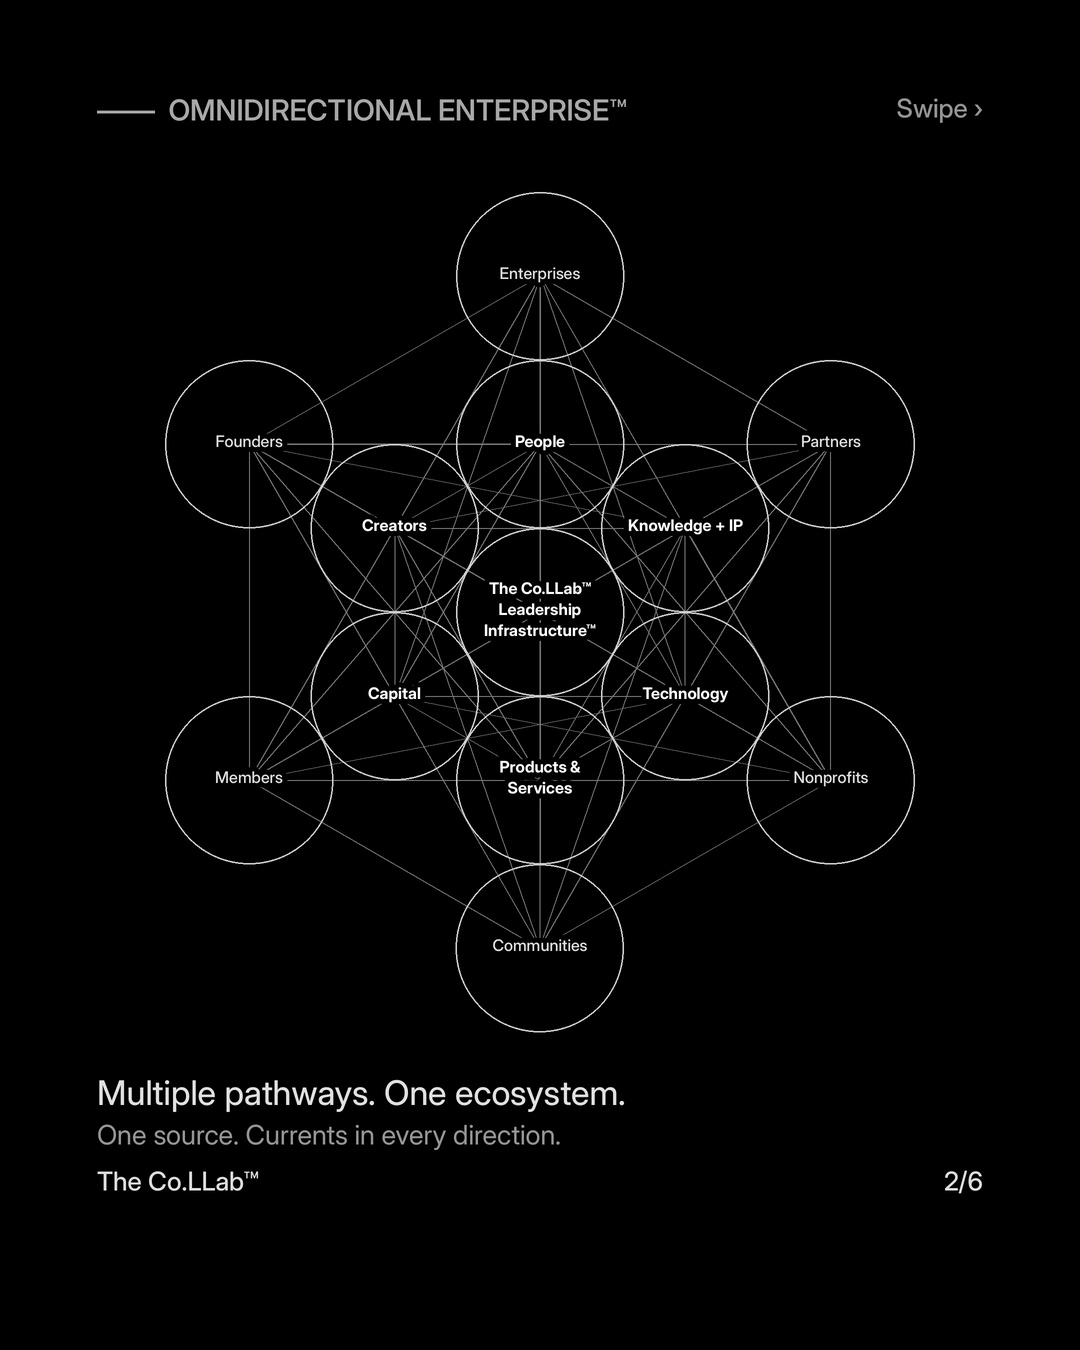
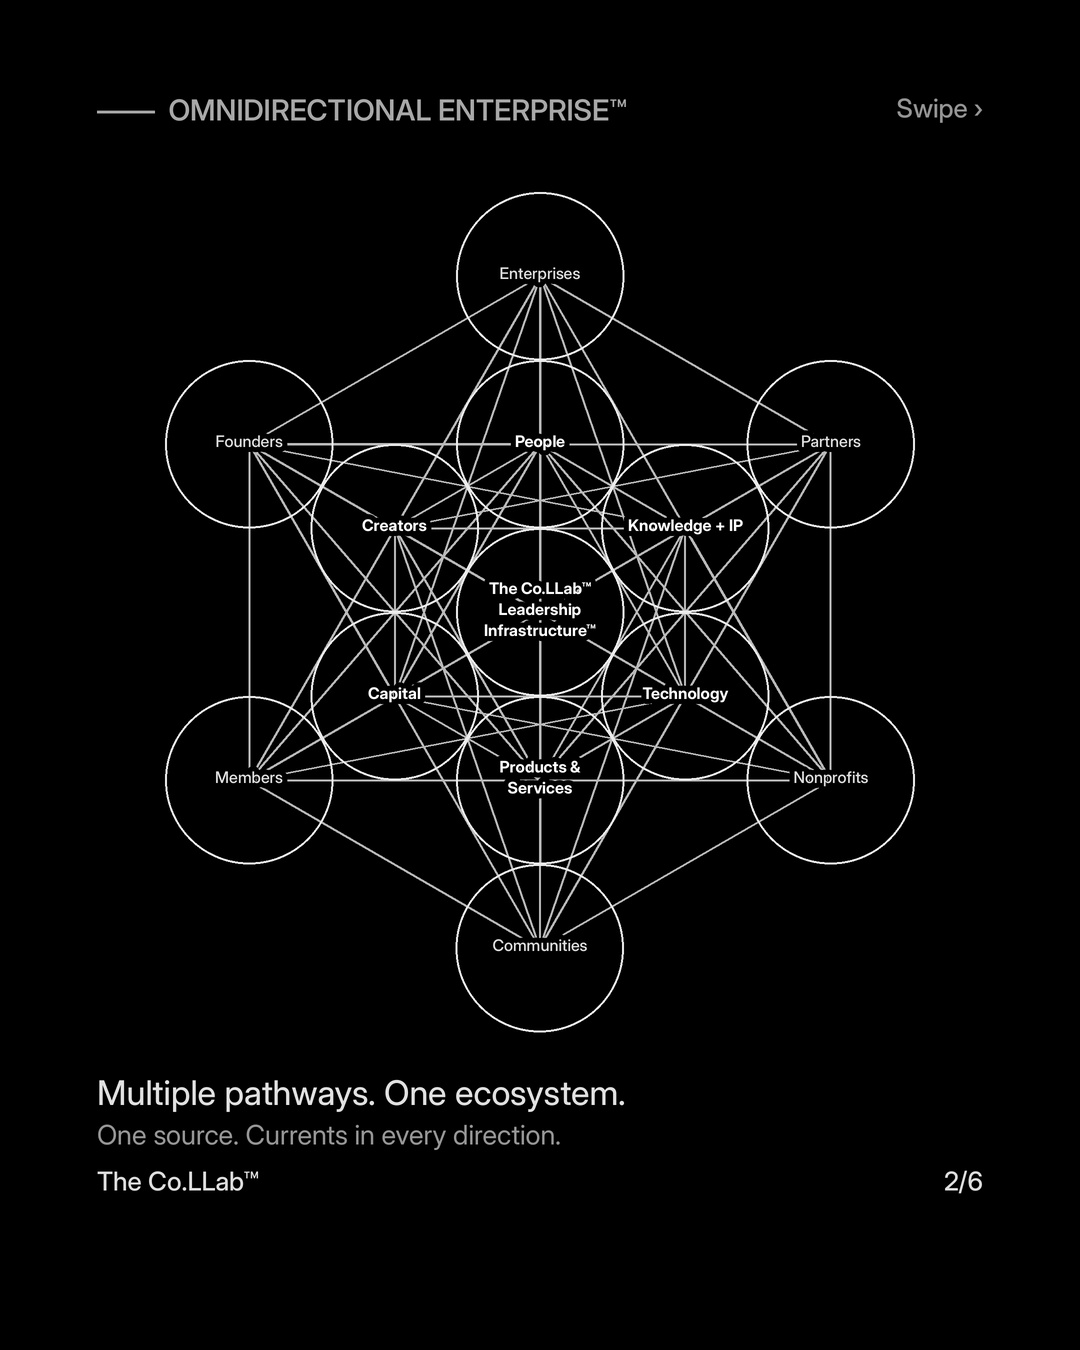
social: more prominent Metatron's Cube lines in queued posts

diff --git a/marketing/collab-social/render.py b/marketing/collab-social/render.py
@@ -71,9 +71,9 @@ def figure(idx=None, total=None, kicker="Omnidirectional Enterprise™", W=1080,
     for k in range(6):
         a=(90+60*k)%360; C[f"i{a}"]=pt(2*r,a); C[f"o{a}"]=pt(4*r,a)
     for p,q in itertools.combinations(C.values(),2):
-        d.line([(S(p[0]),S(p[1])),(S(q[0]),S(q[1]))],fill=(118,118,118),width=round(S(1.2)))
+        d.line([(S(p[0]),S(p[1])),(S(q[0]),S(q[1]))],fill=(185,185,185),width=round(S(1.9)))
     for x,y in C.values():
-        d.ellipse([S(x-r),S(y-r),S(x+r),S(y+r)],outline=(205,205,205),width=round(S(1.6)))
+        d.ellipse([S(x-r),S(y-r),S(x+r),S(y+r)],outline=(235,235,235),width=round(S(2.0)))
     for key,(x,y) in C.items():
         role,lines=FIG_ROLE[key]
         f=_font(S(16),700 if role!="out" else 520); col=(255,255,255) if role!="out" else (222,222,222)
